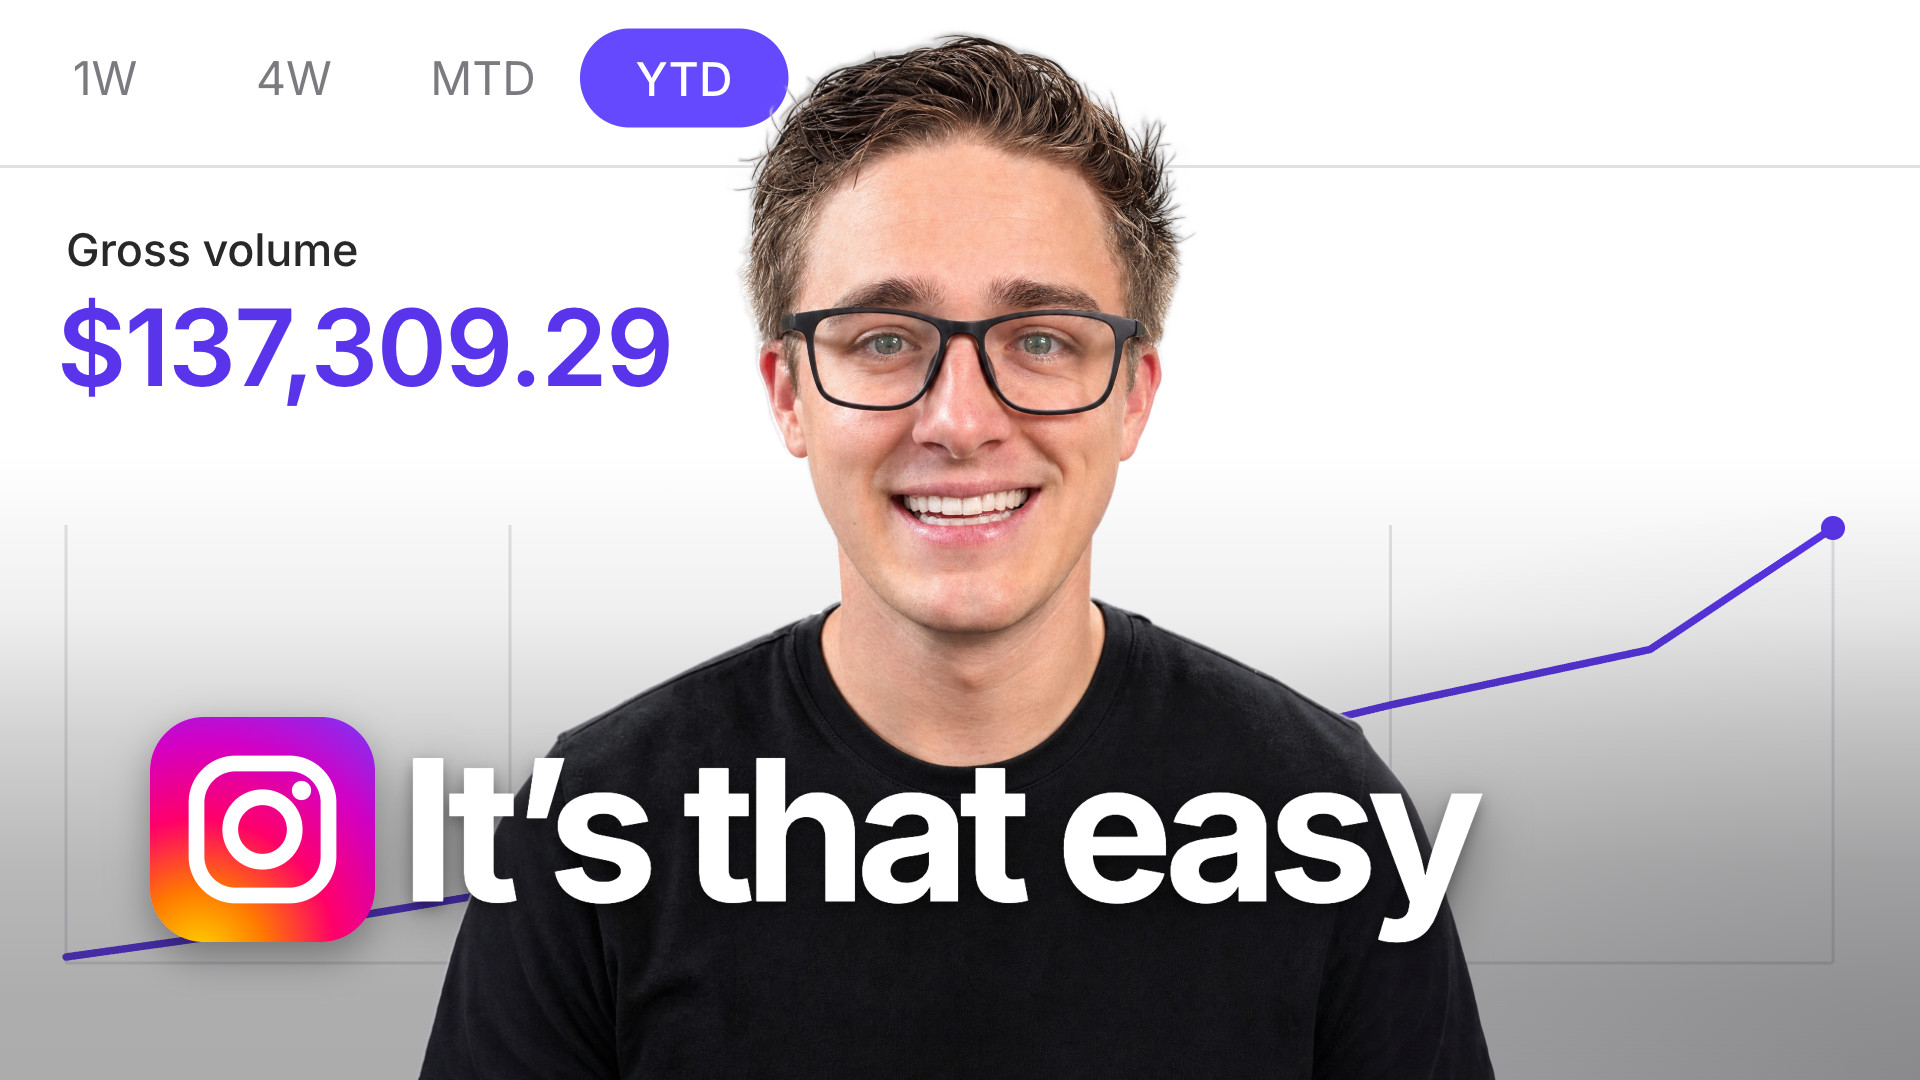
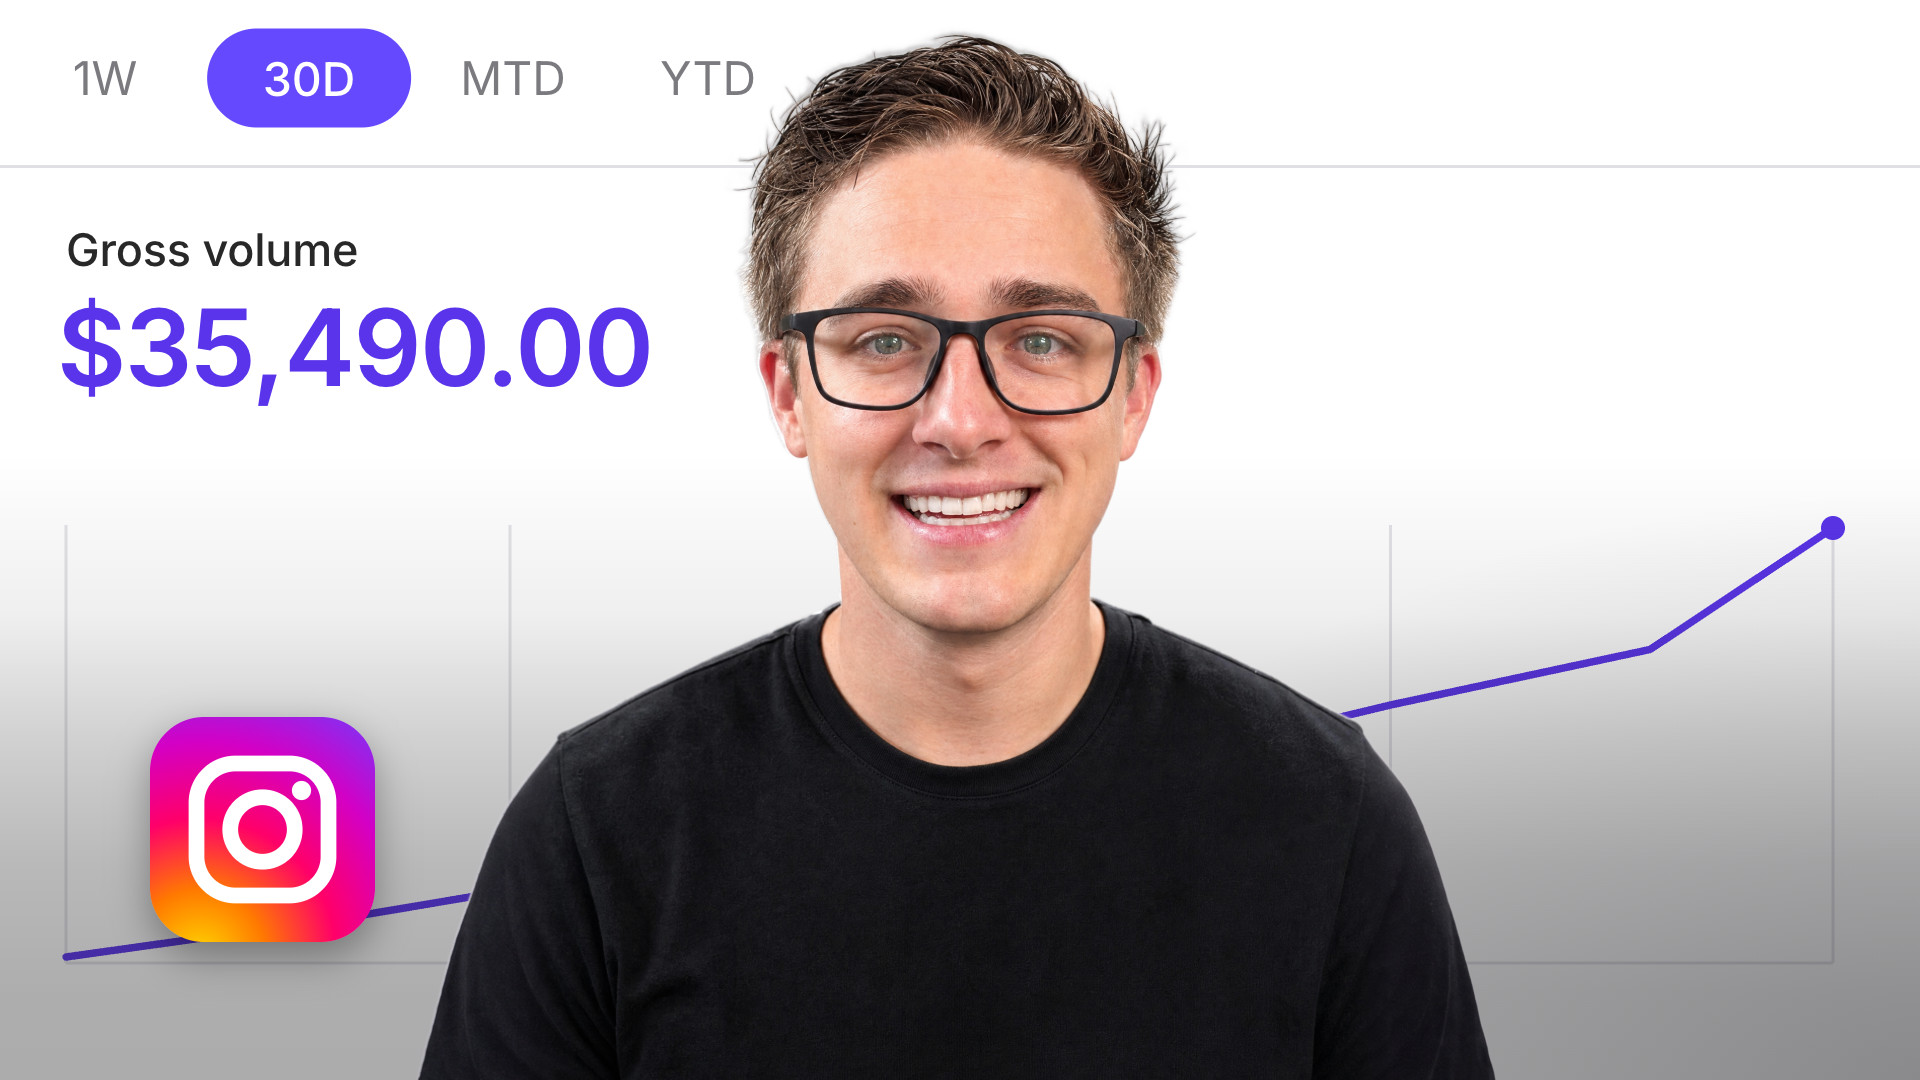
accelerator/c: Jeremy AI revisions (new headline, pill, seat-count note, 30D $35,490 cover, no caption); split still paused

Changed region(s): [[0.1875, 0.7028, 0.7812, 0.8861], [0.0938, 0.0, 0.4375, 0.1222], [0.0625, 0.275, 0.375, 0.3972]]

diff --git a/accelerator/c/index.html b/accelerator/c/index.html
@@ -17,10 +17,10 @@
 <meta name="viewport" content="width=device-width, initial-scale=1, viewport-fit=cover">
 <meta name="robots" content="noindex, nofollow">
 <meta name="theme-color" content="#ffffff">
-<title>How I Scaled to $30K/Month as an AI Creative Strategist Without Being an AI Savant</title>
+<title>How I Went From $0 to $30K/Month Without Being an AI Expert</title>
 <meta name="description" content="Watch the free 5-minute breakdown, then apply to see if you're a fit for the system.">
 <link rel="icon" href="data:,">
-<link rel="preload" as="image" href="thumb.jpg?v=opt1">
+<link rel="preload" as="image" href="thumb.jpg?v=j1">
 <link rel="preconnect" href="https://fonts.googleapis.com"><link rel="preconnect" href="https://fonts.gstatic.com" crossorigin>
 <link href="https://fonts.googleapis.com/css2?family=Archivo:ital,wght@0,400..900;1,400..900&family=Inter:wght@400..800&display=swap" rel="stylesheet">
 <link rel="preconnect" href="https://form.typeform.com"><link rel="preconnect" href="https://embed.typeform.com">
@@ -198,7 +198,7 @@ html.c-lock, html.c-lock body { overflow: hidden; }
     <p class="c-pill" data-c="pill">
       <span class="c-pill__lead">For Copywriters / Media Buyers Only</span>
       <span class="c-pill__rule" aria-hidden="true"></span>
-      <span class="c-pill__tail"><strong>$1M+/month</strong> in ad spend managed using this system</span>
+      <span class="c-pill__tail"><strong>$0 to $30K/month</strong> in 90 days using this system</span>
     </p>
   </div>
 
@@ -208,7 +208,7 @@ html.c-lock, html.c-lock body { overflow: hidden; }
       <p class="c-eyebrow c-reveal c-reveal--1" data-c="eyebrow">The BRAND NEW way to get clients with&nbsp;AI</p>
 
       <!-- ===== HEADLINE: the one place to change it. Keep the money phrase inside <span class="c-mark">. Also update <title> above. ===== -->
-      <h1 class="c-title c-reveal c-reveal--2" id="c-title" data-c="headline">How I Scaled to <span class="c-mark">$30K/Month</span> as an AI Creative Strategist Without Being an AI Savant</h1>
+      <h1 class="c-title c-reveal c-reveal--2" id="c-title" data-c="headline">How I Went From $0 to <span class="c-mark">$30K/Month</span> Without Being an AI Expert</h1>
 
       <p class="c-sub c-reveal c-reveal--3" data-c="sub">Watch the free 5-minute breakdown below, then apply to see if you're a fit for the system.</p>
 
@@ -218,7 +218,7 @@ html.c-lock, html.c-lock body { overflow: hidden; }
           <video preload="none" playsinline disablepictureinpicture controlslist="nodownload noplaybackrate"
                  data-src-hd="../assets/vsl-v3-1080.mp4" data-src-sd="../assets/vsl-v3-720.mp4"></video>
           <button class="c-poster" type="button" aria-label="Play the video with sound">
-            <img src="thumb.jpg?v=opt1" alt="" width="1920" height="1080" fetchpriority="high">
+            <img src="thumb.jpg?v=j1" alt="" width="1920" height="1080" fetchpriority="high">
             <span class="c-poster__scrim" aria-hidden="true"></span>
             <span class="c-poster__play" aria-hidden="true">
               <svg viewBox="0 0 24 24" aria-hidden="true"><path d="M8 5.14v13.72a1 1 0 0 0 1.5.86l11-6.86a1 1 0 0 0 0-1.72l-11-6.86A1 1 0 0 0 8 5.14Z"/></svg>
@@ -250,7 +250,7 @@ html.c-lock, html.c-lock body { overflow: hidden; }
           <span>Apply To Work With Me</span>
           <svg viewBox="0 0 24 24" fill="none" stroke="currentColor" stroke-width="2.4" stroke-linecap="round" stroke-linejoin="round" aria-hidden="true"><path d="M5 12h13"/><path d="m12 5 7 7-7 7"/></svg>
         </a>
-        <p class="c-micro" data-c="note">Takes 5 minutes &middot; Only for copywriters and media buyers already doing the work</p>
+        <p class="c-micro" data-c="note">Takes 5 minutes &middot; Only 10 founding seats available</p>
       </div>
 
     </div>
